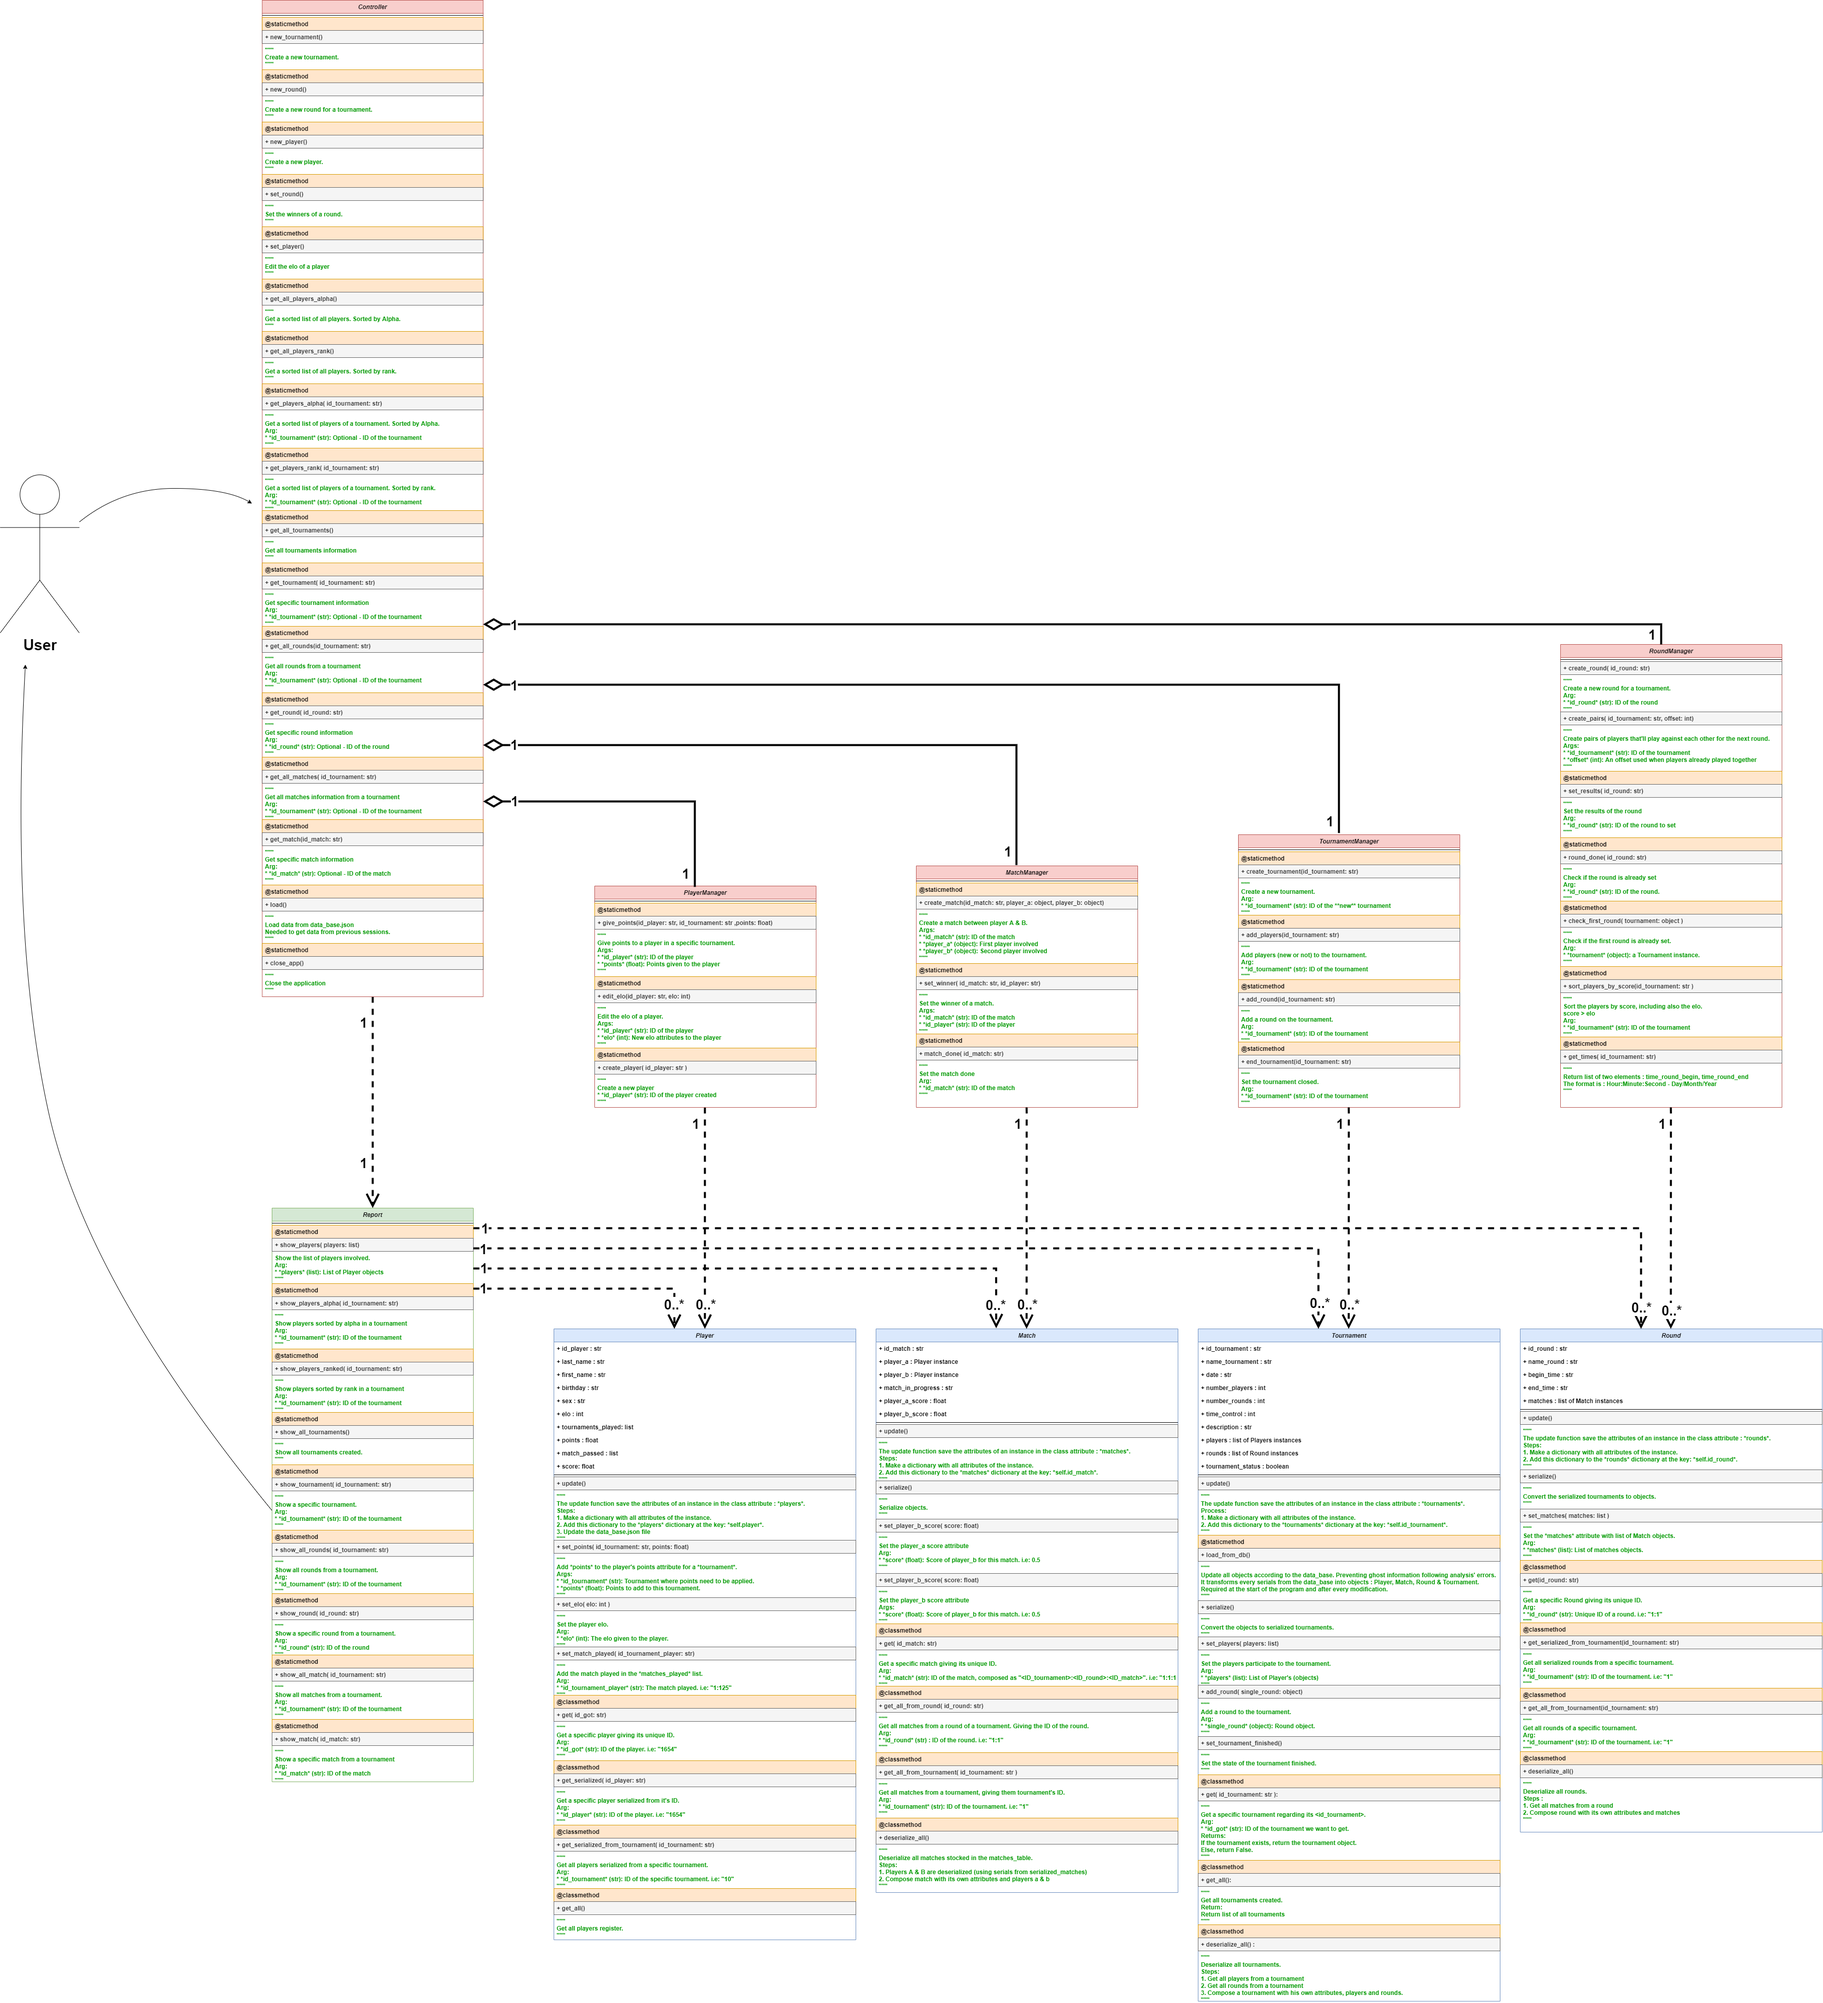
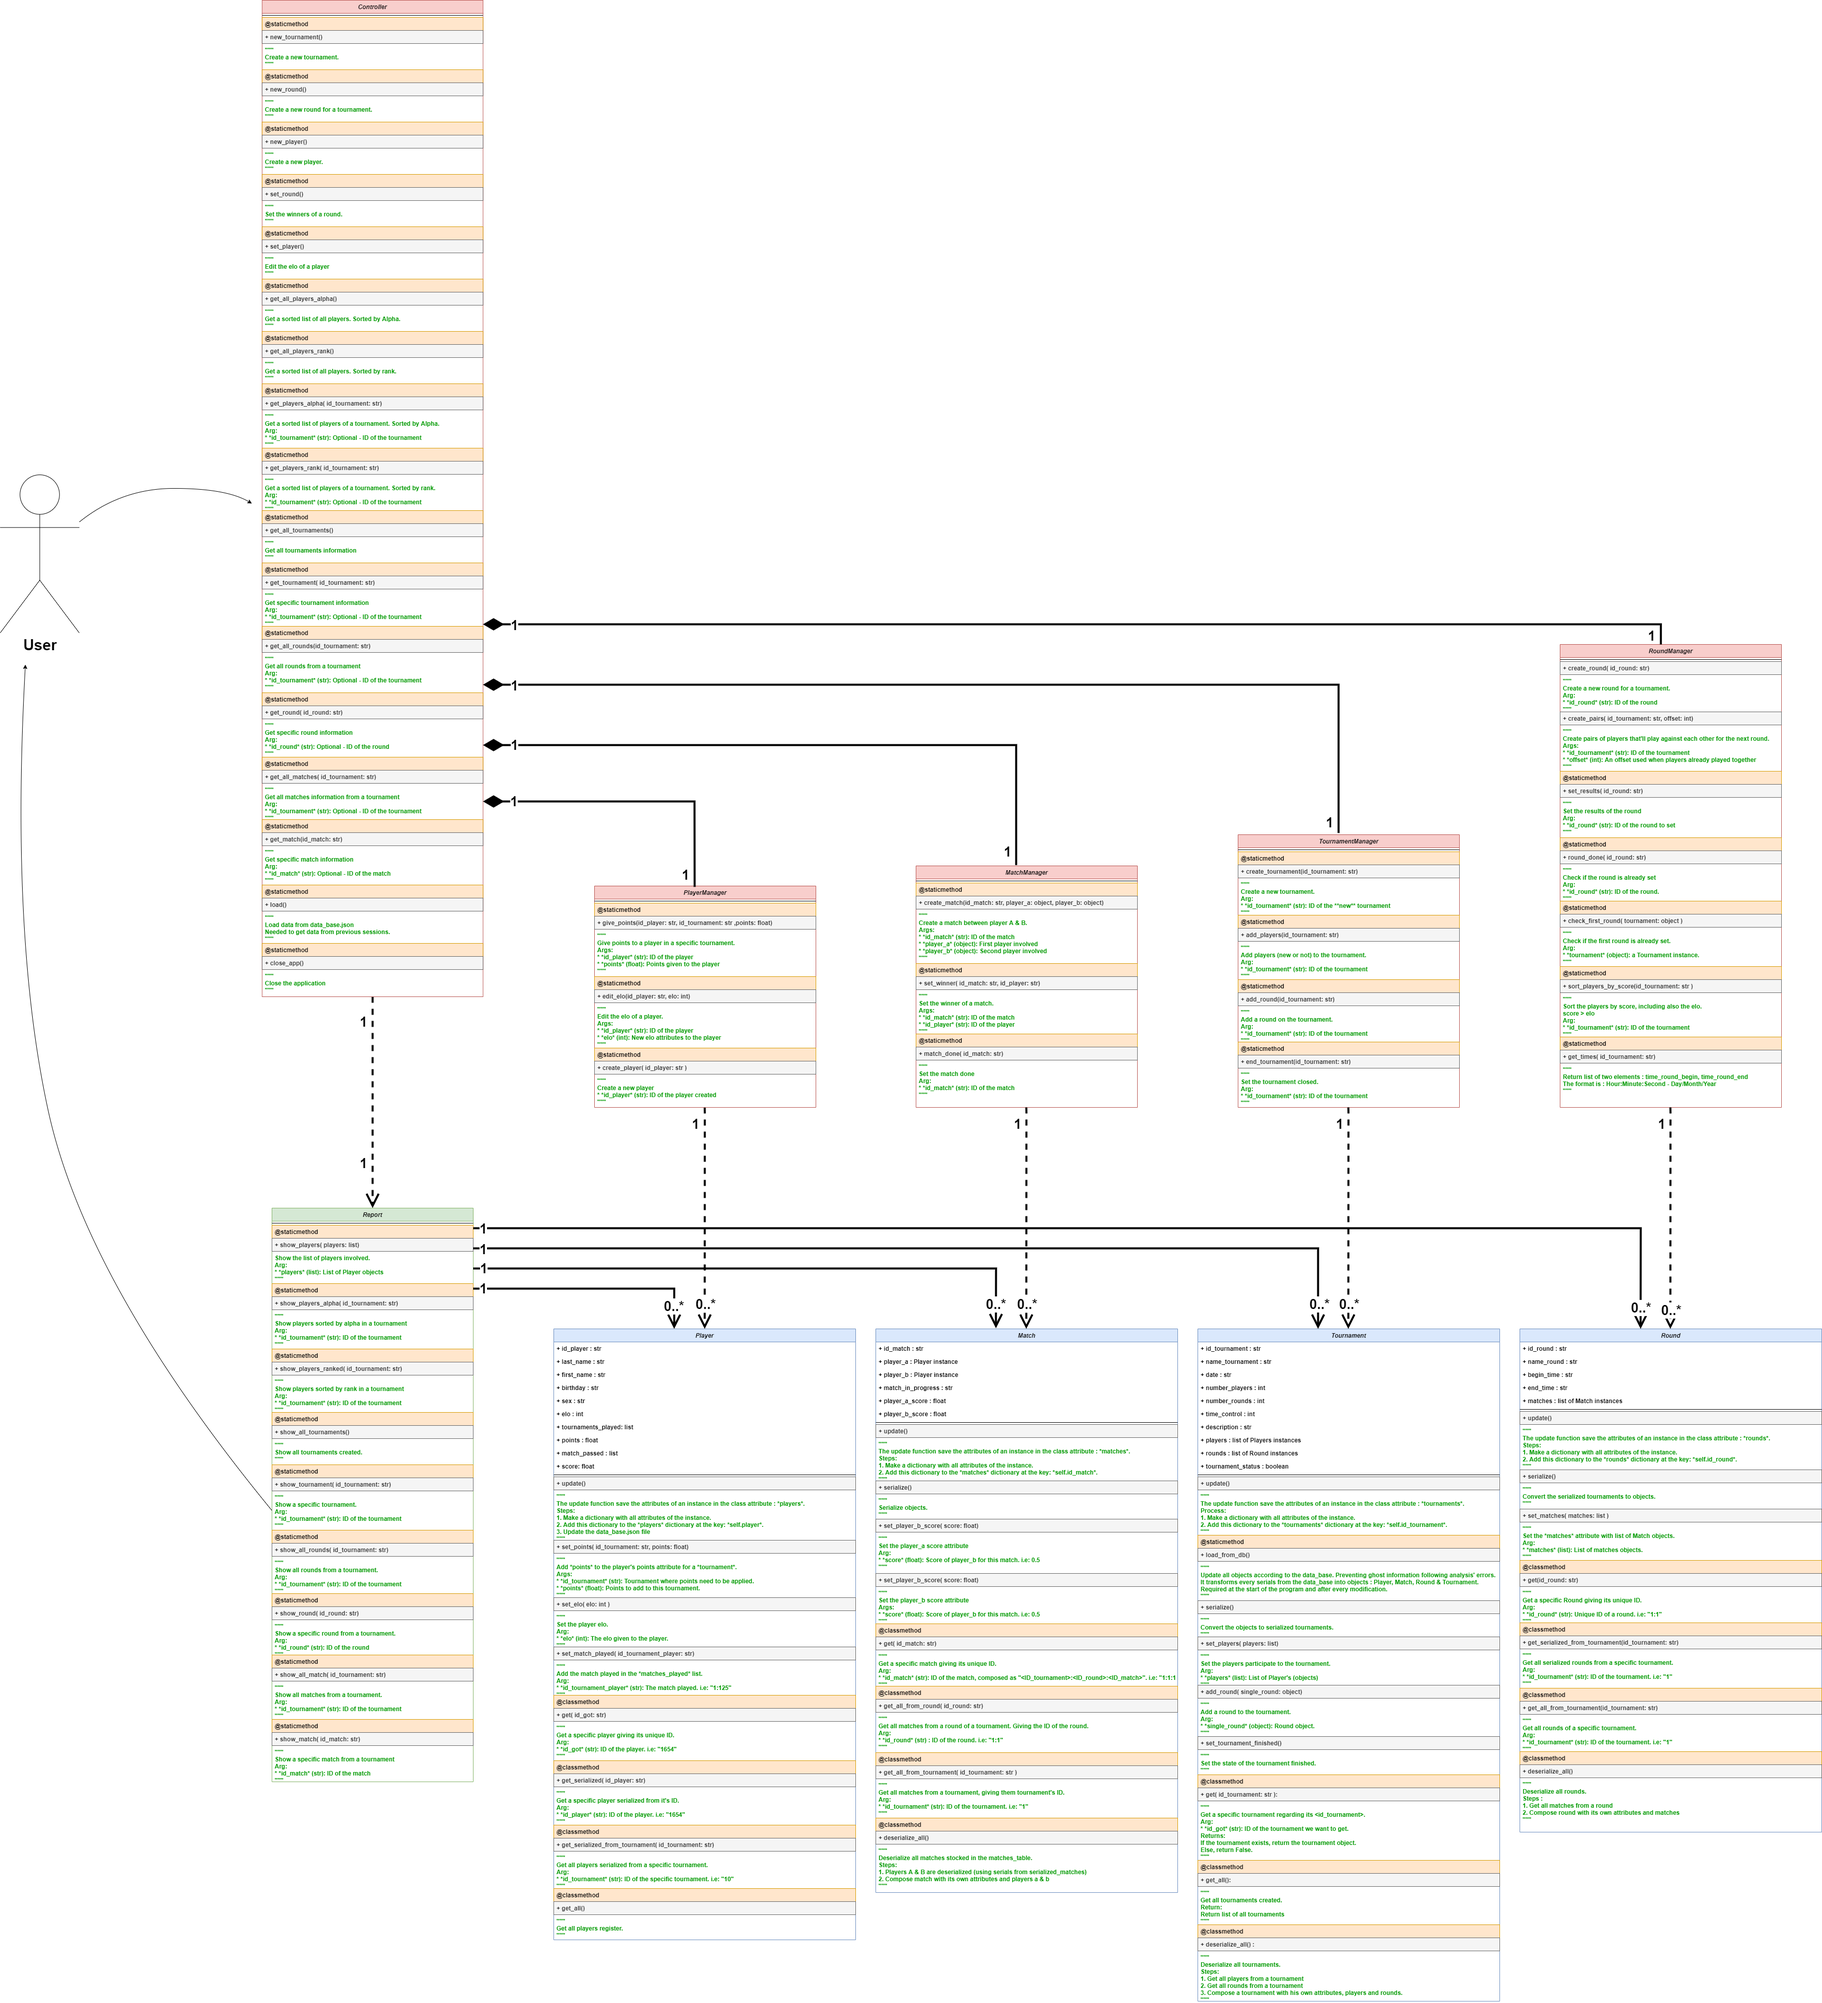
Fix error round_manager, switch to composition in archi.png

diff --git a/flake8_report/index.html b/flake8_report/index.html
@@ -9,7 +9,7 @@
       <div id="masthead" class="sev-4"></div>
       <div id="page">
           <h1>flake8 violations</h1>
-         <p id="versions">Generated on 2021-04-05 16:28
+         <p id="versions">Generated on 2021-04-06 02:45
             with mccabe: 0.6.1, pycodestyle: 2.6.0, pyflakes: 2.2.0
          </p>
          <ul id="index">

diff --git a/app/Controllers/round_manager.py b/app/Controllers/round_manager.py
@@ -78,6 +78,7 @@ class RoundManager:
                 pairs.append([player_a, player_b])
             return pairs
         else:
+            # Not first round :
             tables = [[] for _ in range(number_matches)]
             number_first_tables = (number_matches//2) + 1 if number_matches % 2 else number_matches//2
             # Create subdivisions
@@ -94,9 +95,9 @@ class RoundManager:
             players_last = [player for player in players[(number_first_tables*2)-1:]]
 
             target = first_tables[0]
-            for _ in range(offset_first, len(players_first)+offset_first):
+            for _ in range(len(players_first)):
                 player = players_first.pop(offset_first) if len(players_first) > offset_first \
-                                                            else players_first.pop(-1)
+                                                            else players_first.pop(0)
                 tables[target].append(player)
                 if len(tables[target]) >= 2:
                     player_a = tables[target][0]
@@ -106,10 +107,12 @@ class RoundManager:
                         return self.create_pairs(id_tournament, offset_first, offset_last)
                     else:
                         target += 1
+
             target = last_tables[0]
             len_players_last = len(players_last)
             for _ in range(len_players_last):
-                player = players_last.pop(offset_last) if offset_last < len(players_last) else players_last.pop(-1)
+                player = players_last.pop(offset_last) if offset_last < len(players_last) \
+                                                        else players_last.pop(0)
                 tables[target].append(player)
                 if len(tables[target]) >= 2:
                     player_a = tables[target][0]
